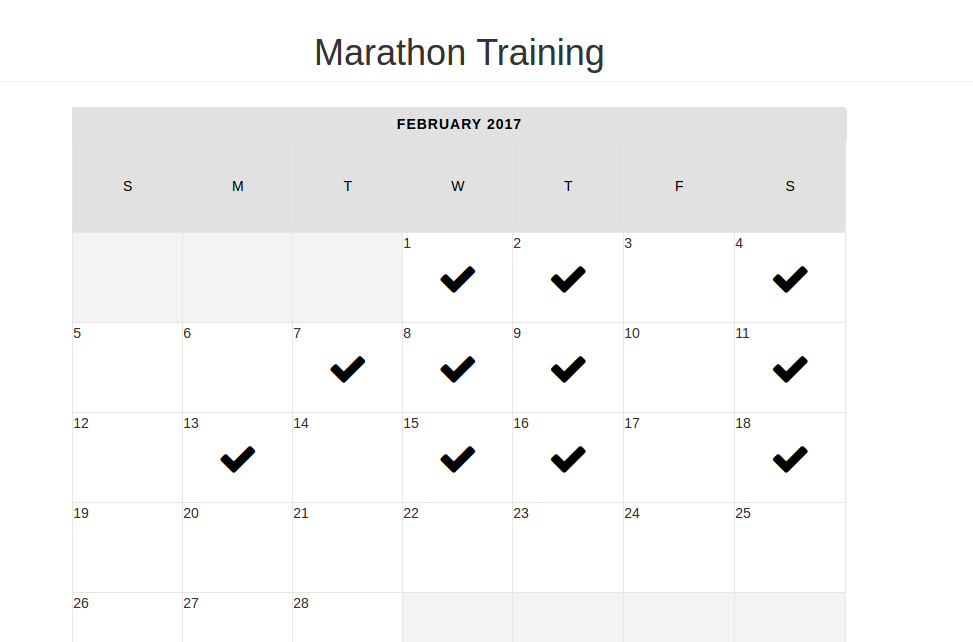
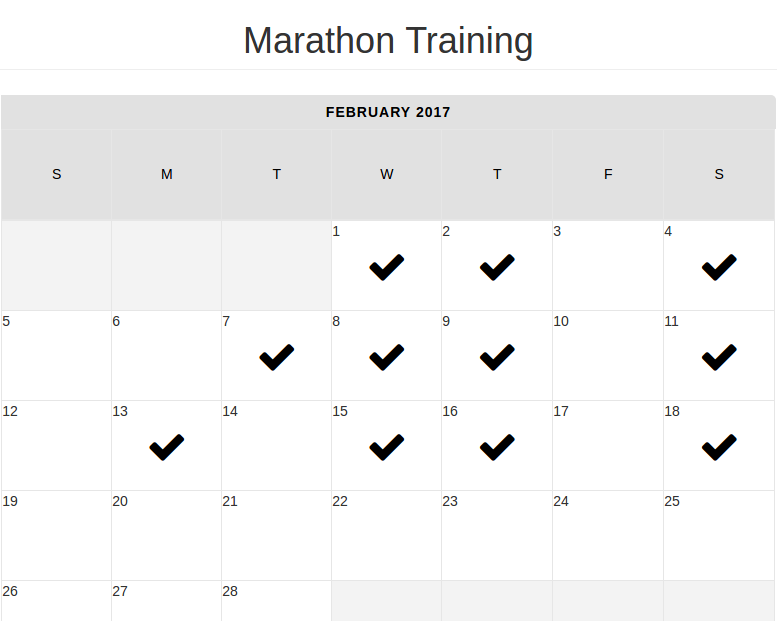
fixed sign in button css for mobile view

diff --git a/docs/calendar.css b/docs/calendar.css
@@ -36,18 +36,39 @@ body{
 }
 
 #user-container {
-  display: -webkit-box;      /* OLD - iOS 6-, Safari 3.1-6 */
-  display: -moz-box;         /* OLD - Firefox 19- (buggy but mostly works) */
-  display: -ms-flexbox;      /* TWEENER - IE 10 */
-  display: -webkit-flex;     /* NEW - Chrome */
-  display: flex;             /* NEW, Spec - Opera 12.1, Firefox 20+ */
-  flex-direction: row;
-  top: 22px;
-  right: 0;
-  padding-left: 10px;
-  justify-content: flex-end;
-  padding-right: 10px;
+  width: 100%;
+  padding-bottom: 10px;
 }
+
+#sign-in, #sign-out {
+  text-align: center;
+  display: inline-block;
+}
+
+.material-icons, #sign-in-text {
+  display: inline-block;
+  padding: 0;
+}
+
+
+.material-icons {
+  vertical-align: top!important;
+}
+
+/* material-icons rules */
+/* Rules for sizing the icon. */
+.material-icons.md-18 { font-size: 18px; }
+.material-icons.md-24 { font-size: 24px; }
+.material-icons.md-36 { font-size: 36px; }
+.material-icons.md-48 { font-size: 48px; }
+
+#sign-in-text {
+  font-size: 22px;
+  margin: 0;
+  padding-left: 5px;
+}
+
+
 #user-container #user-pic {
   top: 5px;
   position: relative;
@@ -128,115 +149,7 @@ table {
 }
 
 
-@media screen and (min-width: 980px) /* Desktop */ {
-  .monthframe, #template {
-    margin:auto;
-    margin-bottom: 25px;
-    margin-top: 25px;
-    position: relative;
-    width: 60%
-}
-  .checkmark {
-    font-size: 40px;
-    /*--adjust as necessary--*/
-    color: #000;
-    /*font-size: 28px;*/
-    padding-right: 0.5em;
-    position: absolute;
-    margin: 0 0 0 -20px;
-    top: 20%;
-    left: 50%;
-  }
-  td {
-    height: 90px;
-    width: 90px;
-  }
-   
 
-}
-
-@media screen and (max-width: 979px) /*tablet*/ {
-  .monthframe, #template {
-    margin:auto;
-    margin-bottom: 25px;
-    margin-top: 25px;
-    position: relative;
-    width: 100%
-}
-  .checkmark {
-    font-size: 36px;
-    /*--adjust as necessary--*/
-    color: #000;
-    /*font-size: 28px;*/
-    padding-right: 0.5em;
-    position: absolute;
-    top: 30%;
-    margin: 0 0 0 -18px;
-    left: 50%;
-    }
-  td {
-    height: 103px;
-    width: 103px;
-}
-
-  
-}
-
-@media screen and (max-width: 500px) /* mobile*/  {
-  .monthframe, #template {
-    margin:auto;
-    margin-bottom: 25px;
-    margin-top: 25px;
-    position: relative;
-    width: 100%
-}
-  .checkmark {
-    font-size: 14px;
-    /*--adjust as necessary--*/
-    color: #000;
-    /*font-size: 28px;*/
-    padding-right: 0.5em;
-    position: absolute;
-    top: 30%;
-    margin: 0 0 0 -7px;
-    left: 50%;
-  }
-  td {
-    width: 55px;
-    height: 55px;
-}
-
-  #createButton, #clearButton {
-    /*padding: 5px 10px 5px 10px; */
-    font-size: 16px; 
-    line-height: 1.5; 
-    border-top-left-radius: 0px;
-    border-bottom-right-radius: 0px;
-  } 
-  
-
-}
-
-@media screen and (max-width: 320px) {
-    td {
-      width: 40px;
-      height: 40px;
-    }
-}
-
-/*@media screen and (max-width: 170px) for when you resize your screen {
-  .navbar-brand {
-    font-size: 15px;
-    line-height: 15px;
-  }
-  #contentWrapper {
-    padding-top: 110px;
-  }
-  #setButton, #clearButton {
-    margin-top: 5px;
-  }
-}
-*/
 
 .month {
     width: 100%
@@ -314,3 +227,99 @@ label {
 }
 
 
+
+@media screen and (min-width: 960px) /* Desktop */ {
+  .monthframe, #template {
+    margin:auto;
+    margin-bottom: 25px;
+    margin-top: 25px;
+    position: relative;
+    width: 60%
+}
+  .checkmark {
+    font-size: 40px;
+    /*--adjust as necessary--*/
+    color: #000;
+    /*font-size: 28px;*/
+    padding-right: 0.5em;
+    position: absolute;
+    margin: 0 0 0 -20px;
+    top: 20%;
+    left: 50%;
+  }
+  td {
+    height: 90px;
+    width: 90px;
+  }
+   
+
+}
+
+@media screen and (min-width: 768px) /*tablet*/ {
+  .monthframe, #template {
+    margin:auto;
+    margin-bottom: 25px;
+    margin-top: 25px;
+    position: relative;
+    width: 100%
+}
+  .checkmark {
+    font-size: 36px;
+    /*--adjust as necessary--*/
+    color: #000;
+    /*font-size: 28px;*/
+    padding-right: 0.5em;
+    position: absolute;
+    top: 30%;
+    margin: 0 0 0 -18px;
+    left: 50%;
+    }
+  td {
+    height: 103px;
+    width: 103px;
+}
+
+  
+}
+
+@media screen and (max-width: 500px) /* mobile*/  {
+  .monthframe, #template {
+    margin:auto;
+    margin-bottom: 25px;
+    margin-top: 25px;
+    position: relative;
+    width: 100%
+}
+  .checkmark {
+    font-size: 14px;
+    /*--adjust as necessary--*/
+    color: #000;
+    /*font-size: 28px;*/
+    padding-right: 0.5em;
+    position: absolute;
+    top: 30%;
+    margin: 0 0 0 -7px;
+    left: 50%;
+  }
+  td {
+    width: 55px;
+    height: 55px;
+}
+
+  #createButton, #clearButton {
+    /*padding: 5px 10px 5px 10px; */
+    font-size: 16px; 
+    line-height: 1.5; 
+    border-top-left-radius: 0px;
+    border-bottom-right-radius: 0px;
+  } 
+  
+
+}
+
+@media screen and (max-width: 320px) {
+    td {
+      width: 40px;
+      height: 40px;
+    }
+}

diff --git a/docs/index.html b/docs/index.html
@@ -141,7 +141,7 @@
         
         
          <!-- fourth item in navbar, sign in button -->
-           <ul>
+           
             <div id="user-container">
                 <div hidden id="user-pic"></div>
                 <div hidden id="user-name"></div>
@@ -149,10 +149,11 @@
                   Sign-out
                 </button>
                 <button class="btn btn-primary navbar-btn " hidden id="sign-in"> 
-                  <i class="material-icons">account_circle</i>Sign-in with Google
+                  <i class="material-icons md-36">account_circle</i>
+                  <p id="sign-in-text">Sign-in with Google</p>
                 </button>
             </div>
-            </ul>
+       
      
 
         </div> <!-- /#main-navbar -->
@@ -176,7 +177,7 @@
               <h1 class="text-center page-header"> How to Get Started</h1>
               <p>
                   <ol id="guideList" class="list-group">
-                      <li class="list-group-item">Click the top right button to sign in with Google.</li>
+                      <li class="list-group-item">Click menu or the top right button to sign in with Google.</li>
                       <li class="list-group-item">
                       <div>
                           <p>Fill out the Build Calendar form to create your calendar. The start date
@@ -202,7 +203,7 @@
                       </li>
                   </ol>
               </p>
-              <h1 class="page-header">Sample Calendars</h1>
+              <h1 class="page-header">Sample Calendar</h1>
               <div id="calendarSampleContainer">
                   <img class="img-responsive" src="samplecalendar.png"/>
               </div>
